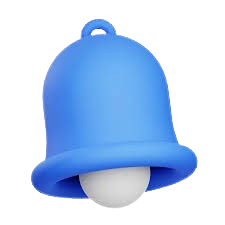
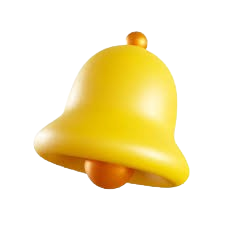
ki

diff --git a/src/Components/Login.jsx b/src/Components/Login.jsx
@@ -1,5 +1,5 @@
 import React, { useState } from "react";
-
+import { RxCross2 } from "react-icons/rx";
 const Login = ({ isVisible, onClose }) => {
   const [isSignUp, setIsSignUp] = useState(false); // State to track active mode
    const[isSignIn,serIsSignIn]=useState(false);
@@ -24,15 +24,20 @@ const Login = ({ isVisible, onClose }) => {
         className="bg-white p-6 rounded-lg w-[90%] md:w-[440px] shadow-lg"
         onClick={(e) => e.stopPropagation()}
       >
-        <button
+        {/*<button
           className="absolute top-2 right-2 text-xl font-bold text-gray-500"
           onClick={onClose}
         >
           X
-        </button>
+        </button>*/}
+        <div className="flex justify-end">
+  <RxCross2 className="text-[20px]" onClick={onClose}/>
+</div>
+
         <h2 className="text-3xl text-center font-bold text-blue-950 mb-4">
           {isSignUp ? "Sign Up" : "Login"}
         </h2>
+        
         <div className="border border-gray-150 border-t-0 pb-[5px]">
           <div className="flex flex-row">
             <div
@@ -80,7 +85,6 @@ const Login = ({ isVisible, onClose }) => {
                 className="w-[90%] p-1 px-2 border border-gray-300 shadow-md rounded-md outline-none focus:border-blue-950"
               />
             </div>
-           
               <div className="flex flex-col gap-2 ml-[20px]">
                 <label htmlFor="phn" className="font-semibold text-blue-950">
                   Phone number
@@ -95,36 +99,42 @@ const Login = ({ isVisible, onClose }) => {
               </div>
             <button
               type="submit"
-              className="w-[90%] bg-blue-600 ml-[20px] text-white py-2 px-4 rounded-md hover:bg-blue-700 focus:outline-none focus:ring-2 focus:ring-blue-500 focus:ring-opacity-50 mt-4"
+              className="w-[90%] bg-blue-950 ml-[20px] text-white py-2 px-4 rounded-md hover:bg-blue-700 focus:outline-none focus:ring-2 focus:ring-blue-500 focus:ring-opacity-50 mt-4"
             >
-              {isSignUp ? "Sign Up" : "Login"}
+             Login
             </button>
           </form>}
           
-          {isSignUp && <form className='flex flex-col gap-4'>
-                <div className=' flex flex-col gap-2 ml-[20px]'>
+          {isSignUp && <form className='flex flex-col gap-4 mt-4'>
+               <div className="flex flex-row gap-[5px] ml-[20px]">
+                <div className=' flex flex-col gap-2 '>
                     <label htmlFor="name" className='font-semibold text-blue-950 '>Name</label>
                     <input type="text" placeholder='examplename' className='w-[90%] p-1 px-2 border border-gray-300 shadow-md rounded-md outline-none focus:border-blue-950'/>
                 </div>
-                <div className=' flex flex-col gap-2 ml-[20px]'>
+                <div className=' flex flex-col gap-2 '>
                     <label htmlFor="rguktid" className='font-semibold text-blue-950 '>Rgukt Id</label>
                     <input type="text" placeholder='1234' className='w-[90%] p-1 px-2 border border-gray-300 shadow-md rounded-md outline-none focus:border-blue-950'/>
                 </div>
-                <div className=' flex flex-col gap-2 ml-[20px]'>
+                </div>
+                <div className="flex flex-row gap-[5px] ml-[20px]">
+                <div className=' flex flex-col gap-2 '>
                     <label htmlFor="mail" className='font-semibold text-blue-950 '>E-mail</label>
                     <input type="email" placeholder='examplename@gmail.com' className='w-[90%] p-1 px-2 border border-gray-300 shadow-md rounded-md outline-none focus:border-blue-950'/>
                 </div>
-                <div className=' flex flex-col gap-2 ml-[20px]'>
+                <div className=' flex flex-col gap-2 '>
                     <label htmlFor="pwd" className='font-semibold text-blue-950 '>Password</label>
                     <input type="password" placeholder='........' className='w-[90%] p-1 px-2 border border-gray-300 shadow-md rounded-md outline-none focus:border-blue-950'/>
                 </div>
-                <div className=' flex flex-col gap-2 ml-[20px]'>
+                </div>
+                <div className='flex flex-row gap-[5px] ml-[20px]'>
+                <div className=' flex flex-col gap-2 '>
                     <label htmlFor="domain" className='font-semibold text-blue-950 '>Working Domain</label>
                     <input type="text" placeholder='cse' className='w-[90%] p-1 px-2 border border-gray-300 shadow-md rounded-md outline-none focus:border-blue-950'/>
                 </div>
-                <div className=' flex flex-col gap-2 ml-[20px]'>
+                <div className=' flex flex-col gap-2 '>
                     <label htmlFor="photo" className='font-semibold text-blue-950 '>Upload Photo</label>
                     <input type="file" className='w-[90%] flex justify-between'/>
+                </div>
                 </div>
                 <div>
                     <button className='w-[90%] ml-[20px] rounded-md bg-blue-950 text-white text-center py-1  text-lg font-semibold'>Submit</button>
